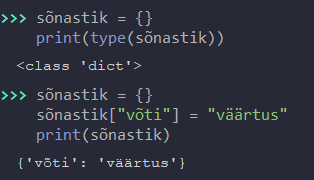
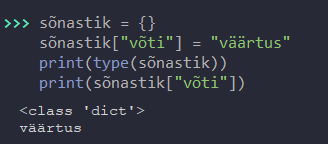
Tegin vahelehte ja panin fondi shared cssi

diff --git a/Vaheleht2.html b/Vaheleht2.html
@@ -2,9 +2,10 @@
 <html lang="et">
     <head>
         <meta charset="UTF-8">
+        <meta name="viewport" content="width=device-width; height=device-height; initial-scale=1">
         <link rel="stylesheet" href="stylevaheleht2.css">
         <link rel="stylesheet" href="shared.css">
-         <script src="javascript.js"></script> 
+        <script src="javascript.js"></script> 
         <title>Pythoni andmetüübid</title>
     </head>
     <body>
@@ -15,54 +16,77 @@
       </div>
         <div class="info">
             <h2>Pythoni andmetüübid</h2>
-            <p>Pythoni üheks tähtsamaks osaks on muutujad ning andmed, mida muutujad endas talletavad.</p>
+            <p>Pythoni üheks tähtsamaks osaks on muutujad ning andmed, mida muutujad endas talletavad. Andmete liiki nimetatakse programmeerimisel andmetüübiks. Järgnevalt tutvume põhiliste andmetüüpidega ning ka mõne keerukamaga.</p>
             <img class="naide1" src="Pildid/Vaheleht2/naide1.png" alt="x väärtus on 4">
             <div class="pilditekst">Näiteks: rida "x = 4" omistab muutujale x väärtuse täisarvu 4.</div>
             <h2>Põhilised andmetüübid</h2>
-            <p>Pythonis on kõige aluseks 3 põhilist andmetüüpi. Andmetüüpe on küll rohkem, aga lõppude lõpuks tuginetakse alati neile kolmele. Veel üheks põhiliseks andmetüübiks on kompleksarvud, mida me siin lehel ei käsitle.<br> 
+            <p>Pythonis on kõige aluseks 4 põhilist andmetüüpi. Andmetüüpe on küll rohkem, aga lõppude lõpuks tuginetakse alati neile kolmele.<br> 
             Hea teada: Pythoni käsklus <code>type</code> tagastab antud väärtuse tüübi.</p>  
-            <div class="tab">
-                <button class="tablinks" onclick="andmetüüp(event, 'str')">String</button>
-                <button class="tablinks" onclick="andmetüüp(event, 'int')">Integer</button>
-                <button class="tablinks" onclick="andmetüüp(event, 'float')">Floating Point Number</button>
+            <div class="sakk">
+                <button class="sakklink" onclick="andmetüüp(event, 'str')">String</button>
+                <button class="sakklink" onclick="andmetüüp(event, 'int')">Integer</button>
+                <button class="sakklink" onclick="andmetüüp(event, 'float')">Floating Point Number</button>
+                <button class="sakklink" onclick="andmetüüp(event, 'trueorfalse')">Boolean</button>
             </div>
-            <div id="str" class="tabcontent">
-            <p>str - string ehk sõne, kõik mis jääb jutumärkide ("") või ülakomade ('') vahele.<br> 
+            <div id="str" class="sakksisu">
+            <p>str - string ehk sõne, kõik mis jääb jutumärkide (" ") või ülakomade (' ') vahele.<br> 
             NB! Ka ujukoma- ja täisarvud loevad sõnena, kui need jätta jutumärkide vahele.</p>
-            <img class="andmetüübid" src="Pildid/Vaheleht2/str.png" alt="String Pythonis">
+            <img class="andmetüübid" src="Pildid/Vaheleht2/str.png" alt="Sõne Pythonis">
+            <div class="pilditekst">Antud kontekstis on <code>"9"</code> hoopis sõne.</div>
             </div>
-            <div id="int" class="tabcontent">
+            <div id="int" class="sakksisu">
             <p>int - integer ehk täisarv (nt 3, 19, 206)</p>
-            <img class="andmetüübid" src="Pildid/Vaheleht2/int.png" alt="Integer Pythonis">
+            <img class="andmetüübid" src="Pildid/Vaheleht2/int.png" alt="Täisarv Pythonis">
             </div>
-            <div id="float" class="tabcontent">
+            <div id="float" class="sakksisu">
             <p>float - floating point number ehk ujukomaarv, st arv, milles esineb komakoht (nt 4.45, aga ka 6.0)</p>
-            <img class="andmetüübid" src="Pildid/Vaheleht2/float.png" alt="Float Pythonis">
+            <img class="andmetüübid" src="Pildid/Vaheleht2/float.png" alt="Ujukomaarv Pythonis">
             </div>
-            <p>Tasub ka mainida, et teatud operatsioonid töötavad ainult teatud andmetüüpidega. Rida <code>x = "Tere!" / "Maailm!"</code> tagastab errori, kuna kahte sõnet ei saa omavahel jagada.</p>
+            <div id="trueorfalse" class="sakksisu">
+            <p>bool - boolean ehk tõeväärtus. Antud andmetüüp on omamoodi, kuna sellel saab olla täpselt 2 väärtust: <code>True</code> või <code>False</code>.<br> 
+            Ühe elemendi tõeväärtust saab kontrollida käsu <code>bool()</code> abil. Kui element on mingi kindel väärtus, millega saab midagi teha, on tema tõeväärtus <code>True</code>.<br>
+            Kui element on nt 0 või tühi sõne (ehk <code>""</code>), siis on tema tõeväärtus <code>False</code>.</p>
+            <img class="andmetüübid" src="Pildid/Vaheleht2/bool.png" alt="Boolean Pythonis">
+            <div class="pilditekst">Kuigi tõeväärtust saab kasutada teiste elementide uurimiseks, saab tõeväärtus ise olla ka element.</div>
+            </div>
+            <p>Tasub ka mainida, et teatud operatsioonid töötavad ainult teatud andmetüüpidega. Rida<br>
+            <code>x = "Tere!" / "Maailm!"</code><br>
+            tagastab errori, kuna kahte sõnet ei saa omavahel jagada.</p>
+            <p>Küll aga töötab rida<br>
+            <code>x = "Tere!" + " " + "Maailm!"</code><br>
+            sest sõnesid saab omavahel liita.</p>
             <h2>Keerukamad andmetüübid</h2>
-            <p>Nagu eelnevalt juba mainitud, siis on Pythonis tegelikult rohkem andmetüüpe. Uurime mõnda neist lähemalt:</p>
-                <div class="tab">
-                <button class="tablinks" onclick="andmetüüp(event, 'list')">List</button>
-                <button class="tablinks" onclick="andmetüüp(event, 'set')">Set</button>
-                <button class="tablinks" onclick="andmetüüp(event, 'dict')">Dictionary</button>
+            <p>Nagu eelnevalt juba mainitud, siis on Pythonis tegelikult rohkem andmetüüpe. Andmetüüpe, mille väärtused talletavad endas veel teisi väärtuseid nimetatakse andmestruktuurideks. Uurime mõnda neist lähemalt:</p>
+                <div class="sakk">
+                <button class="sakklink" onclick="andmetüüp(event, 'list')">List</button>
+                <button class="sakklink" onclick="andmetüüp(event, 'set')">Set</button>
+                <button class="sakklink" onclick="andmetüüp(event, 'dict')">Dictionary</button>
             </div>
-            <div id="list" class="tabcontent">
-            <p>str - string ehk sõne, kõik mis jääb jutumärkide ("") või ülakomade ('') vahele.<br> 
-            NB! Ka ujukoma- ja täisarvud loevad sõnena, kui need jätta jutumärkide vahele.</p>
-            <img class="andmetüübid" src="Pildid/Vaheleht2/str.png" alt="String Pythonis">
+            <div id="list" class="sakksisu">
+            <p>list - list ehk järjend. Võib sisaldada kuitahes palju elemente, kusjuures elemendid võivad korduda. Järjendi tunneb ära nurksulgude [ ] järgi.<br>
+                Tühja järjendit saab koostada käsuga <code>järjend = []</code> ning sellesse saab elemente lisada käsuga <code>järjend.append(element)</code>.</p>
+                <p>Siinkohal tasub mainida, et kui soovite saada järjendist kätte ühte kindlat elementi, siis peab selle esile kutsuma indeksi kaudu.<br>
+                <b>Python alustab indeksite lugemist nullist.</b><br>
+                Nt järjendi <code>järjend = ["talv", "kevad", "suvi", "sügis"]</code> elemendile <code>"talv"</code> vastab indeks 0, elemendile <code>"kevad"</code> indeks 1 jne.</p>
+            <img class="andmetüübid" src="Pildid/Vaheleht2/list.png" alt="Järjend Pythonis">
+            <div class="pilditekst">Järjendi elemendi indeksit saab uurida <code>järjend.index(element)</code> käsuga.</div>
             </div>
-            <div id="set" class="tabcontent">
-            <p>int - integer ehk täisarv (nt 3, 19, 206)</p>
-            <img class="andmetüübid" src="Pildid/Vaheleht2/int.png" alt="Integer Pythonis">
+            <div id="set" class="sakksisu">
+            <p>set - set ehk hulk. Sarnaneb järjendiga, erandiks see, et hulgas ei saa elemendid korduda ning elemendid ei oma indekseid. Hulga tunneb ära looksulgude järgi { }.<br>
+            NB! Ka sõnastik kasutab looksulge! <br>
+            Tühja hulka saab koostada käsuga <code>hulk = set()</code> ning sellesse saab elemente lisada käsuga <code>hulganimi.add(element)</code></p>
+            <img class="andmetüübid" src="Pildid/Vaheleht2/set.png" alt="Hulk Pythonis">
+            <div class="pilditekst">Hulga elemendid on suvalises järjekorras ja ükski element ei kordu</div>
             </div>
-            <div id="dict" class="tabcontent">
-            <p>dict - dictionary ehk sõnastik. Koosneb võtmetest ja väärtustest. Nt. Käsklus <code>sõnastik[x] = y</code> määrab võtmele x väärtuse y.</p>
+            <div id="dict" class="sakksisu">
+            <p>dict - dictionary ehk sõnastik. Koosneb võtmetest ja väärtustest. Tühja sõnastiku saab koostada käsuga <code>sõnastik = {}</code>.<br>
+            Elementide lisamiseks sõnastikku on vaja defineerida nii võti kui ka väärtus. Nt. Käsklus <code>sõnastik[x] = y</code> määrab võtmele x väärtuse y.</p>
+            <p>Indeksid sõnastike puhul ei kehti, kõik väärtused saab kätte neile vastavate võtmete kaudu.<br>
+            Sõnastiku <code>sõnastik = {"võti": "väärtus"}</code> võtme <code>"võti"</code> väärtuse tagastamiseks peame kirjutama <code>print(sõnastik["võti"])</code></p>
             <img class="andmetüübid" src="Pildid/Vaheleht2/dict.png" alt="Sõnastik Pythonis">
             </div>
-            Kõik need andmetüübid omistavad ühele muutujale väärtuse, mis omakorda koosneb veel mitmest väärtusest.
+            <p>Nagu näha, kõik need andmestruktuurid omistavad ühele muutujale väärtuse, mis omakorda koosneb veel mitmest väärtusest ja need väärtused on veel omakorda sõned, täisarvud või ujukomaarvud.</p>
         </div>
 </body>
-
 
 </html>

diff --git a/stylevaheleht2.css b/stylevaheleht2.css
@@ -1,11 +1,13 @@
 body {
-  font-family: Arial, sans-serif; 
   color: white;
 }
 
 .naide1 {
-  max-width: 50%;
-  height: 50%;
+  max-width: 30%;
+  height: 30%;
+  display: block;
+  margin-left: auto;
+  margin-right: auto;
 }
 
 header {
@@ -22,14 +24,17 @@ header {
   text-align: left;
   margin: auto;
   padding: 20px;
-  width: 30%;
+  width: 60%;
   position: relative;
   margin-top: 2%;
   line-height: 1.6;
 }
 
 .andmetüübid {
-  text-align: center;
+  display: block;
+  margin-left: auto;
+  margin-right: auto;
+  margin-bottom: 1%;
 }
 
 header {
@@ -37,10 +42,10 @@ header {
 }
 
 .pilditekst {
-  font-size: 15px;
+  font-size: 14px;
   text-align: center;
-  color: whitesmoke;
-  margin-bottom: 3%;
+  color: gainsboro;
+  margin-bottom: 1%;
 }
 
 .info h2 {
@@ -53,29 +58,21 @@ header {
     align-items: center;
 }
 
-.code-block {
-    background-color: #1f2937;
-    padding: 15px;
-    border-radius: 4px;
-    overflow-x: auto;
-    margin: 15px 0;
-    border-left: 4px solid #6b7280;
+code {
+  font-family: Consolas,"courier new";
+  color: beige;
+  background-color: rgb(40, 50, 50);
+  padding: 2px;
+  font-size: 90%;
 }
 
-.code-block pre {
-    margin: 0;
-    padding: 0;
-}
-
- /* Style the tab */
-.tab {
+.sakk {
   overflow: hidden;
   border: 1px solid #ccc;
   background-color: rgb(50, 90, 77);
 }
 
-/* Style the buttons that are used to open the tab content */
-.tab button {
+.sakk button {
   background-color: inherit;
   float: left;
   border: none;
@@ -86,20 +83,17 @@ header {
   color: white;
 }
 
-/* Change background color of buttons on hover */
-.tab button:hover {
+.sakk button:hover {
   background-color: #ddd;
   color: black;
 }
 
-/* Create an active/current tablink class */
-.tab button.active {
+.sakk button.active {
   background-color: #ccc;
   color: black;
 }
 
-/* Style the tab content */
-.tabcontent {
+.sakksisu {
   display: none;
   padding: 6px 12px;
   border: 1px solid #ccc;

diff --git a/javascript.js b/javascript.js
@@ -1,12 +1,12 @@
 function andmetüüp(evt, tüüp) {
   var i, tabcontent, tablinks;
 
-  tabcontent = document.getElementsByClassName("tabcontent");
+  tabcontent = document.getElementsByClassName("sakksisu");
   for (i = 0; i < tabcontent.length; i++) {
     tabcontent[i].style.display = "none";
   }
 
-  tablinks = document.getElementsByClassName("tablinks");
+  tablinks = document.getElementsByClassName("sakklink");
   for (i = 0; i < tablinks.length; i++) {
     tablinks[i].className = tablinks[i].className.replace(" active", "");
   }

diff --git a/shared.css b/shared.css
@@ -2,6 +2,7 @@ body {
     background-image: url('pildid/Avaleht/taust.jpg') !important;
     background-size: cover !important;
     background-attachment: fixed !important;
+    font-family: Arial, sans-serif; 
     margin: 0;
     padding: 0;
 }

diff --git a/Styles.css b/Styles.css
@@ -1,7 +1,3 @@
-body {
-  font-family: Arial, sans-serif; 
-}
-
 .sisu {
     color: rgba(255, 255, 255, 0.555);
     background-color: rgb(85, 90, 77);

diff --git a/vaheleht1.css b/vaheleht1.css
@@ -1,5 +1,4 @@
 .body1 {
-    font-family: Arial, sans-serif; 
     color: #e5e5e5;
 }
 
